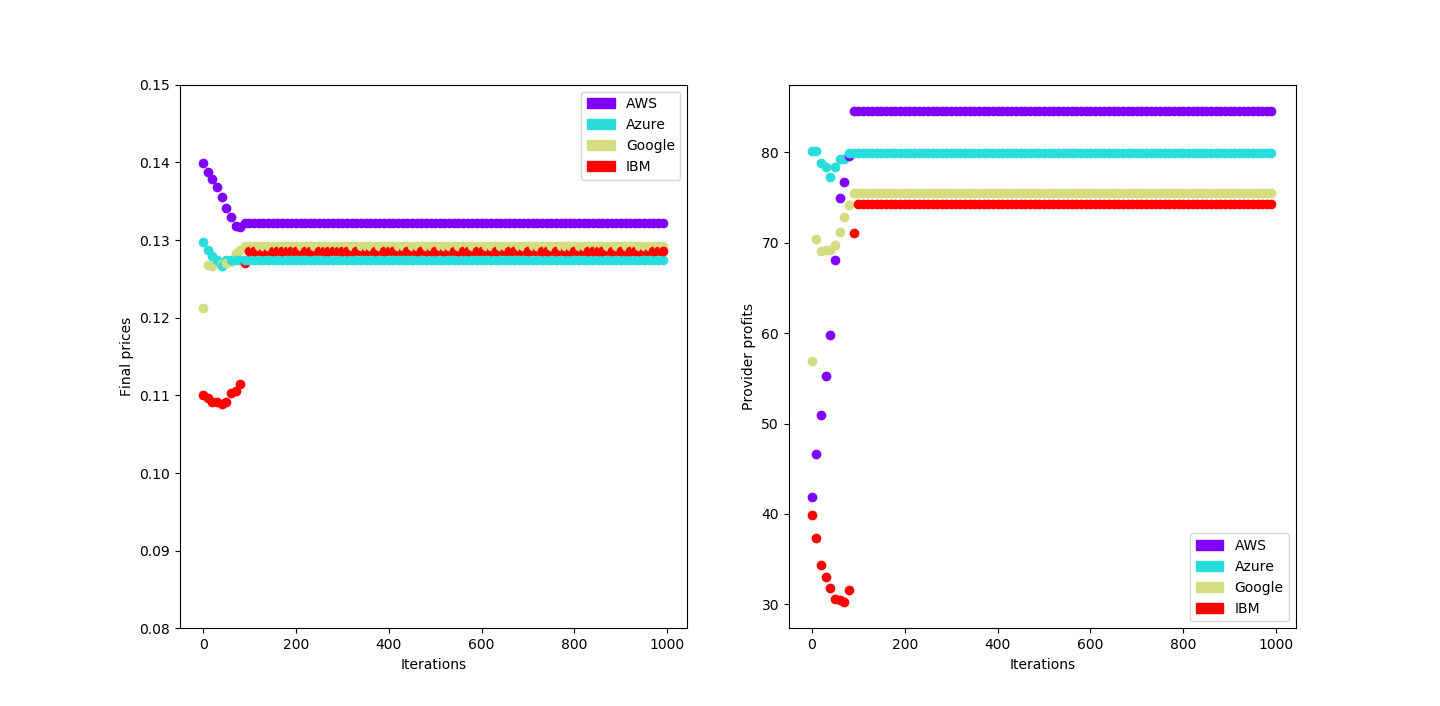
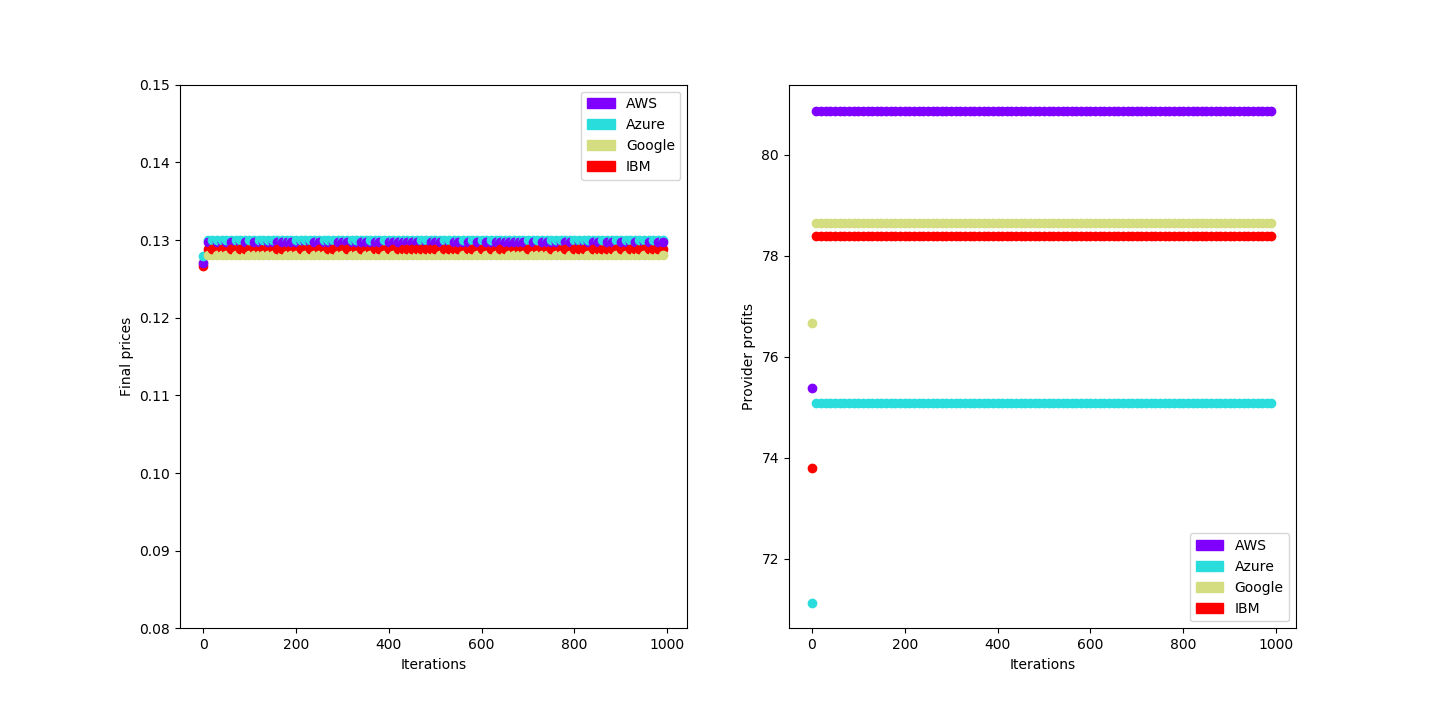
update balanced

diff --git a/balanced/simulation.py b/balanced/simulation.py
@@ -14,10 +14,10 @@ random_prices = np.random.random((num_users, num_resource_types)) * (0.14 - 0.1)
 
 # Set the initial starting prices for the companies
 final_prices = np.random.random((num_providers, num_resource_types)) * (0.14 - 0.1) + 0.1
-final_prices[0] = .14
-final_prices[1] = .13
+final_prices[0] = .12
+final_prices[1] = .12
 final_prices[2] = .12
-final_prices[3] = .11
+final_prices[3] = .12
 final_costs = np.full((num_providers, num_resource_types), 0.1)
 
 # Set the user preferences
